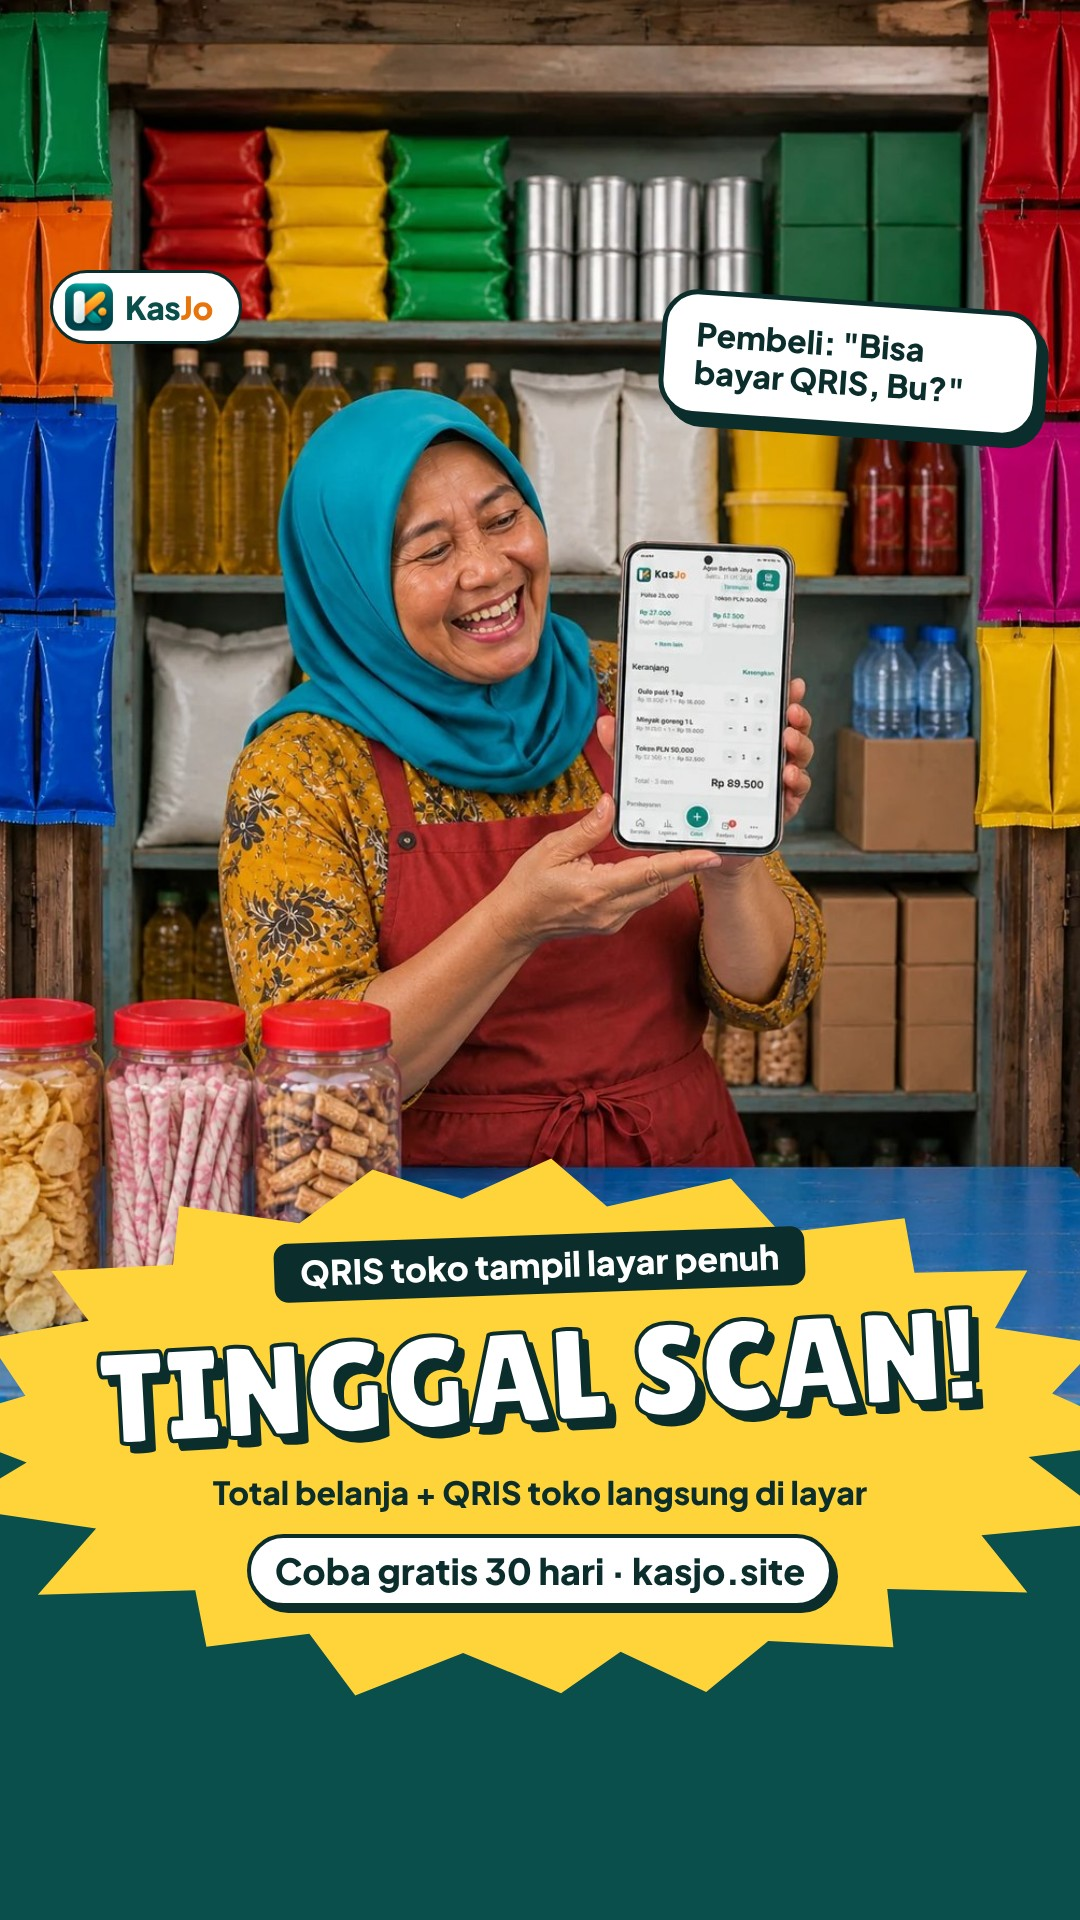
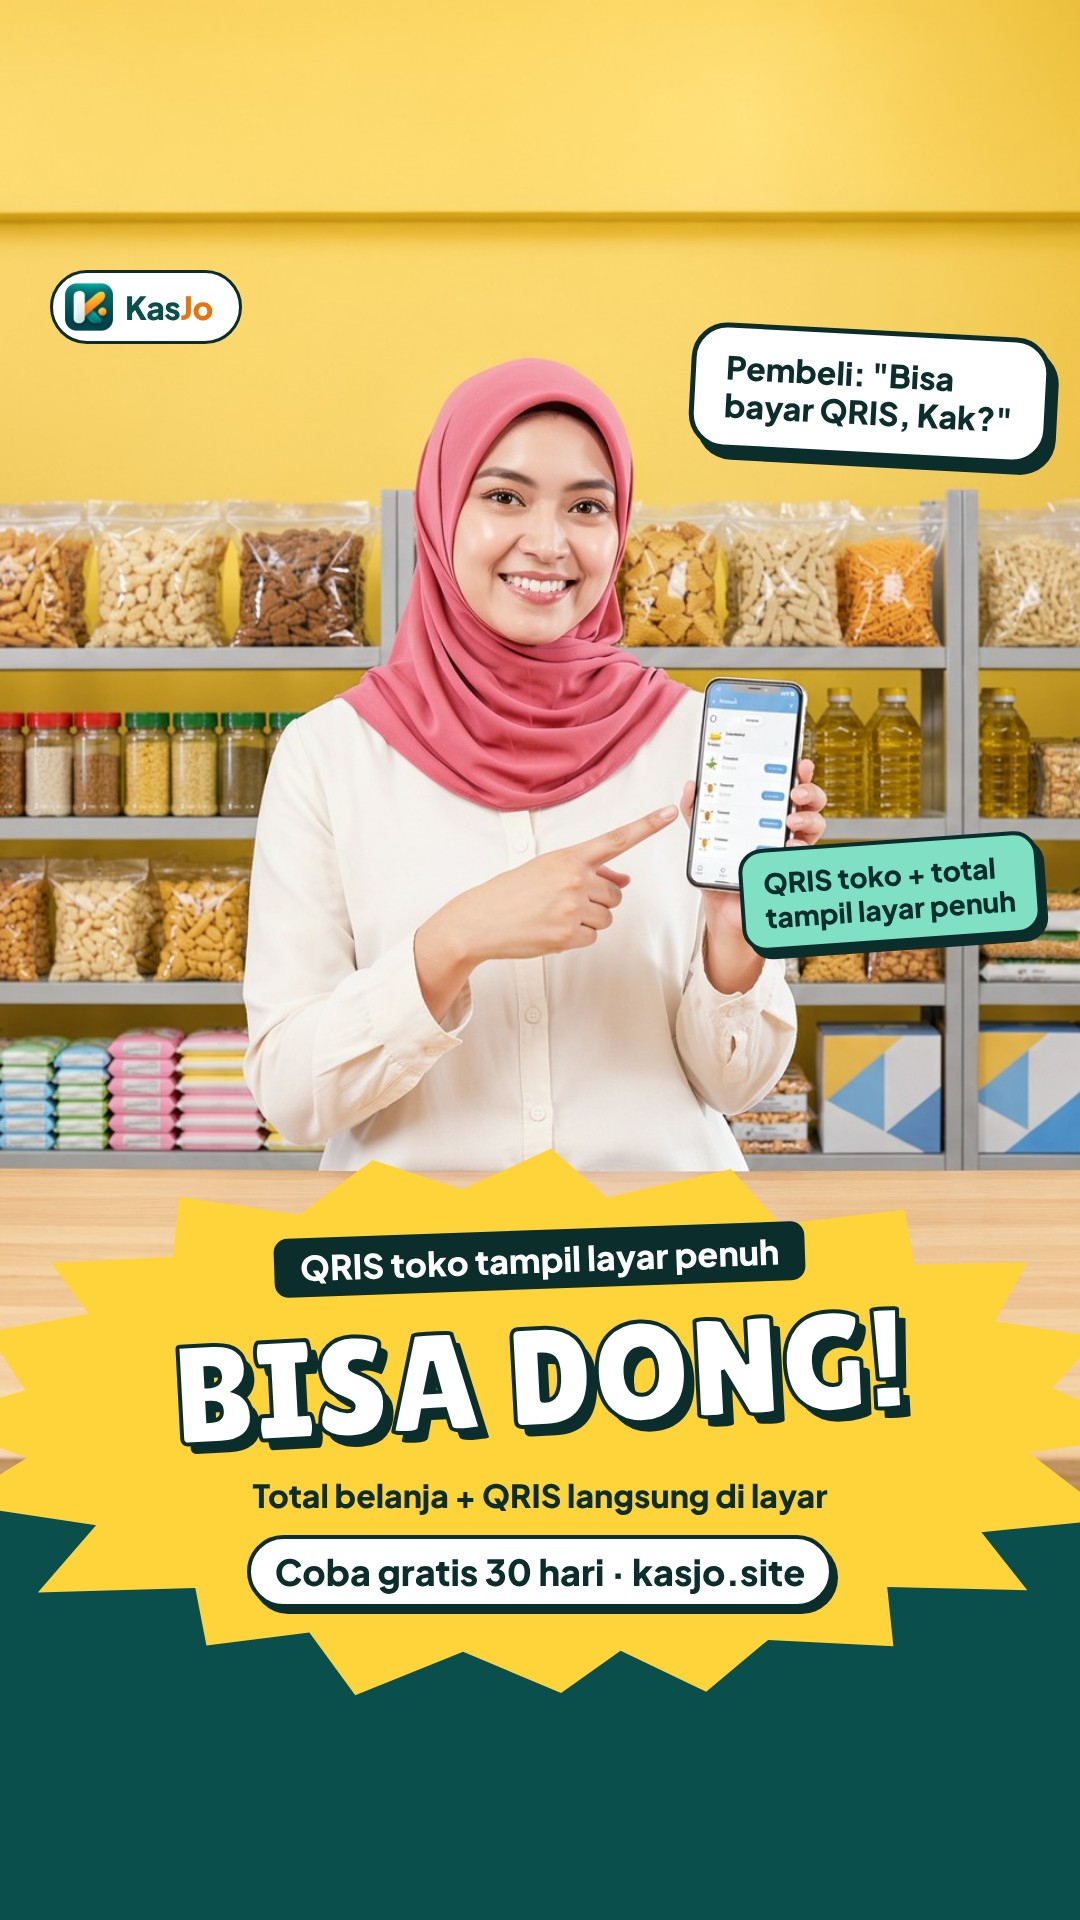
Social: new drafts 2026-11-18..24 with new Canva people photos
Claude-Session: https://claude.ai/code/session_01LzPGboWrJh7nYdFNX2TgsZ

diff --git a/tools/social/queue.md b/tools/social/queue.md
@@ -3,15 +3,13 @@
 Status `approved` = pemilik sudah setuju; tugas terjadwal boleh langsung posting pada tanggalnya tanpa bertanya lagi.
 Status `draft` = belum disetujui, jangan posting.
 Gambar: `https://kasjo.site/social/<date>-<slug>-feed.jpg` dan `-story.jpg`.
-Caption Facebook = caption Instagram tanpa "(link di bio)".
+Caption Facebook = caption Instagram tanpa " (link di bio)".
 Setelah posting: ubah status jadi `posted`, tambah baris di posted.md, commit, push.
 
-Hashtag (semua): #KasJo #HausJo #AgenBRILink #MiniATM #AgenLaku #CuanAgen #UMKM
-
 ## 2026-11-18 | qris-toko | status: draft
-Topik: QRIS toko tampil layar penuh + total | foto: ibu-warung-hp-kasir
+Topik: QRIS toko tampil layar penuh + total | foto: ibu-pink-qris
 ```
-Pembeli mau bayar QRIS? Gampang! 📲
+Pembeli: "Bisa bayar QRIS, Kak?" Bisa dong! 📲
 Di kasir KasJo, pilih bayar QRIS / Transfer, QRIS toko kamu tampil layar penuh bareng total belanjanya. Pembeli tinggal scan.
 
 🎁 Coba gratis 30 hari di kasjo.site (link di bio)
@@ -20,10 +18,10 @@ Di kasir KasJo, pilih bayar QRIS / Transfer, QRIS toko kamu tampil layar penuh b
 ```
 
 ## 2026-11-19 | scan-barcode | status: draft
-Topik: Scan barcode pakai kamera HP | foto: wanita-kacamata-penasaran
+Topik: Scan barcode pakai kamera HP | foto: pemuda-scan-barcode
 ```
-Scan barcode harus beli alat mahal? Gak juga! 🤓
-Di KasJo, cukup arahkan kamera HP ke barcode, barang langsung masuk keranjang. Punya scanner? Bisa dipakai juga.
+Scan barcode harus beli alat mahal? Cukup kamera HP! 🤳
+Di KasJo, arahkan kamera HP ke barcode, barang langsung masuk keranjang. Punya scanner? Bisa dipakai juga.
 
 🎁 Coba gratis 30 hari di kasjo.site (link di bio)
 
@@ -31,10 +29,10 @@ Di KasJo, cukup arahkan kamera HP ke barcode, barang langsung masuk keranjang. P
 ```
 
 ## 2026-11-20 | stok-barang | status: draft
-Topik: Stok barang kelihatan, berkurang otomatis | layar: app-3-kasir-toko
+Topik: Stok barang kelihatan, berkurang otomatis | foto: ibu-hijau-cek-stok
 ```
-Barang tinggal berapa, ya? Cek di HP aja! 📦
-Tiap barang terjual di kasir KasJo, stoknya auto berkurang. Jadi kelihatan mana yang perlu kulakan sebelum rak kosong.
+Rak mulai kosong, Bu? Cek stoknya di HP aja 📦
+Tiap barang terjual di kasir KasJo, stoknya auto berkurang. Jadi kelihatan mana yang perlu kulakan sebelum kehabisan.
 
 🎁 Coba gratis 30 hari di kasjo.site (link di bio)
 
@@ -42,31 +40,31 @@ Tiap barang terjual di kasir KasJo, stoknya auto berkurang. Jadi kelihatan mana 
 ```
 
 ## 2026-11-21 | kasir-anti-curang | status: draft
-Topik: Kasir gak bisa hapus/ubah transaksi + riwayat aktivitas | layar: app-2-catat-transaksi
+Topik: Kasir gak bisa hapus/ubah transaksi + riwayat aktivitas | foto: kasir-rompi-jujur
 ```
-Bos lagi gak di toko? Tetap aman! 🔒
-Di KasJo, kasir bisa catat dan jual, tapi gak bisa hapus atau ubah transaksi. Semua tercatat di riwayat aktivitas: siapa, apa, kapan.
+"Bos, saya cuma bisa catat & jual kok!" 🙋♀
+Di KasJo, kasir bisa catat transaksi dan jual, tapi gak bisa hapus atau ubah. Semua tercatat di riwayat aktivitas: siapa, apa, kapan.
 
 🎁 Coba gratis 30 hari di kasjo.site (link di bio)
 
 #KasJo #HausJo #AgenBRILink #MiniATM #AgenLaku #CuanAgen #UMKM
 ```
 
-## 2026-11-22 | libur-cek-laba | status: draft
-Topik: Libur akhir pekan, cek laba dari rumah | foto: pemilik-hammock-santai
+## 2026-11-22 | piknik-toko-aman | status: draft
+Topik: Libur akhir pekan, pantau dari mana aja | foto: pasangan-piknik
 ```
-Minggu libur, toko tetap buka? Santai, bos 😎
-Laba, saldo, dan kasbon bisa dicek dari HP di mana aja. Kasir catat di toko, kamu pantau dari rumah.
+Minggu libur? Piknik dulu, toko aman! 🧺
+Kasir catat di toko, kamu cek laba, saldo, dan kasbon dari HP di mana aja.
 
 🎁 Coba gratis 30 hari di kasjo.site (link di bio)
 
 #KasJo #HausJo #AgenBRILink #MiniATM #AgenLaku #CuanAgen #UMKM
 ```
 
-## 2026-11-23 | laporan-sekali-tap | status: draft
-Topik: Laporan 7 hari & bulanan sekali tap | layar: app-5-laporan-laba
+## 2026-11-23 | laporan-senin | status: draft
+Topik: Laporan 7 hari & bulanan sekali tap | foto: wanita-kacamata-laporan
 ```
-Senin, waktunya rekap minggu kemarin 📊
+Senin pagi, rekap minggu lalu udah beres dong! ☕📊
 Di KasJo, laporan hari ini, 7 hari, bulan ini, dan bulan lalu tinggal tap. Laba bersih, total fee, sampai selisih kas langsung kelihatan.
 
 🎁 Coba gratis 30 hari di kasjo.site (link di bio)
@@ -75,9 +73,9 @@ Di KasJo, laporan hari ini, 7 hari, bulan ini, dan bulan lalu tinggal tap. Laba 
 ```
 
 ## 2026-11-24 | siap-gajian | status: draft
-Topik: Siapkan saldo sebelum ramai gajian | foto: kaget-laci-kasir
+Topik: Siapkan saldo sebelum ramai gajian | foto: bapak-batik-gajian
 ```
-Besok mulai gajian, antrean tarik tunai siap-siap panjang! 😱
+Besok mulai gajian, antrean tarik tunai bakal panjang! 💸
 Cek dulu kas laci dan saldo semua rekening di KasJo. Pasang batas minimum, nanti ada alarm "saldo menipis" sebelum kehabisan.
 
 🎁 Coba gratis 30 hari di kasjo.site (link di bio)

diff --git a/tools/social/README.md b/tools/social/README.md
@@ -96,9 +96,11 @@ Instagram needs a public JPEG (≤ 8 MB, 4:5 to 1.91:1 for feed; 9:16 for story)
 ## Photo library (`photos/`)
 AI photos (no logos): kaget-laci-kasir, agen-hijab-tunjuk-hp, pelanggan-kasbon-canggung, wanita-kacamata-penasaran,
 ibu-warung-hp-kasir, agen-teriak-senang-koin, agen-panik-hp, ibu-pusing-buku-tulis, pemilik-hammock-santai,
-bapak-ngopi-pantau-hp, wanita-struk-panjang, pria-tidur-nyenyak. App screens: app-1-beranda, app-2-catat-transaksi,
+bapak-ngopi-pantau-hp, wanita-struk-panjang, pria-tidur-nyenyak (all posted by 17 Nov: do not reuse).
+Canva photos (17 Nov, for 18–24 Nov): ibu-pink-qris, pemuda-scan-barcode, ibu-hijau-cek-stok, kasir-rompi-jujur,
+pasangan-piknik, wanita-kacamata-laporan, bapak-batik-gajian. App screens: app-1-beranda, app-2-catat-transaksi,
 app-3-kasir-toko, app-4-struk, app-5-laporan-laba, app-6-kasbon. Logo: kasjo-icon.png.
 
 New AI photos: Canva `generate-image` works, but its full-size file cannot be downloaded from a session.
-If a topic really needs a new photo, generate it, give the owner the Canva link in the draft message and ask
-them to drop the downloaded file in the chat; otherwise reuse the library (different crop / layout).
+Generate a new photo per post, give the owner the Canva links and ask them to drop the downloaded files in the chat
+(or allow export-download.canva.com for the session). Do not reuse posted photos.
